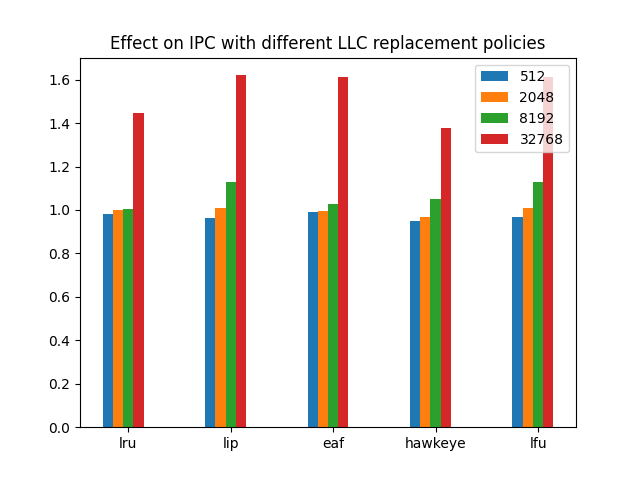
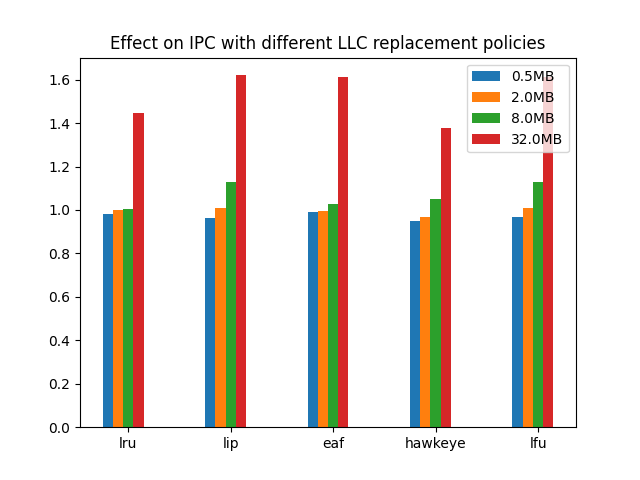
fixed bug

Changed region(s): [[0.7812, 0.125, 0.875, 0.3125], [0.7188, 0.125, 0.75, 0.3125]]

diff --git a/test_l1_size.py b/test_l1_size.py
@@ -60,7 +60,7 @@ plt.figure(figsize=(8, 6))
 for k in range(len(TRACES)):
     plt.bar(ind + width*k, data[0][k, :], width, label=TRACES[k])
 
-sizes = [str(x*20/1024)+"KB" for x in sizes]
+sizes = [str(x*64*20/1024)+"KB" for x in sizes]
 
 
 # plt.xticks(rotation=45)

diff --git a/size_plots.py b/size_plots.py
@@ -5,6 +5,7 @@ import numpy as np
 import os
 
 llc_sets = [512, 2048, 8192, 32768]
+llc_sets = [str(x/1024)+"MB" for x in llc_sets]
 llc_repl = ["lru", "lip", "eaf", "hawkeye", "lfu"]
 TRACES = os.listdir("gap_traces")
 
